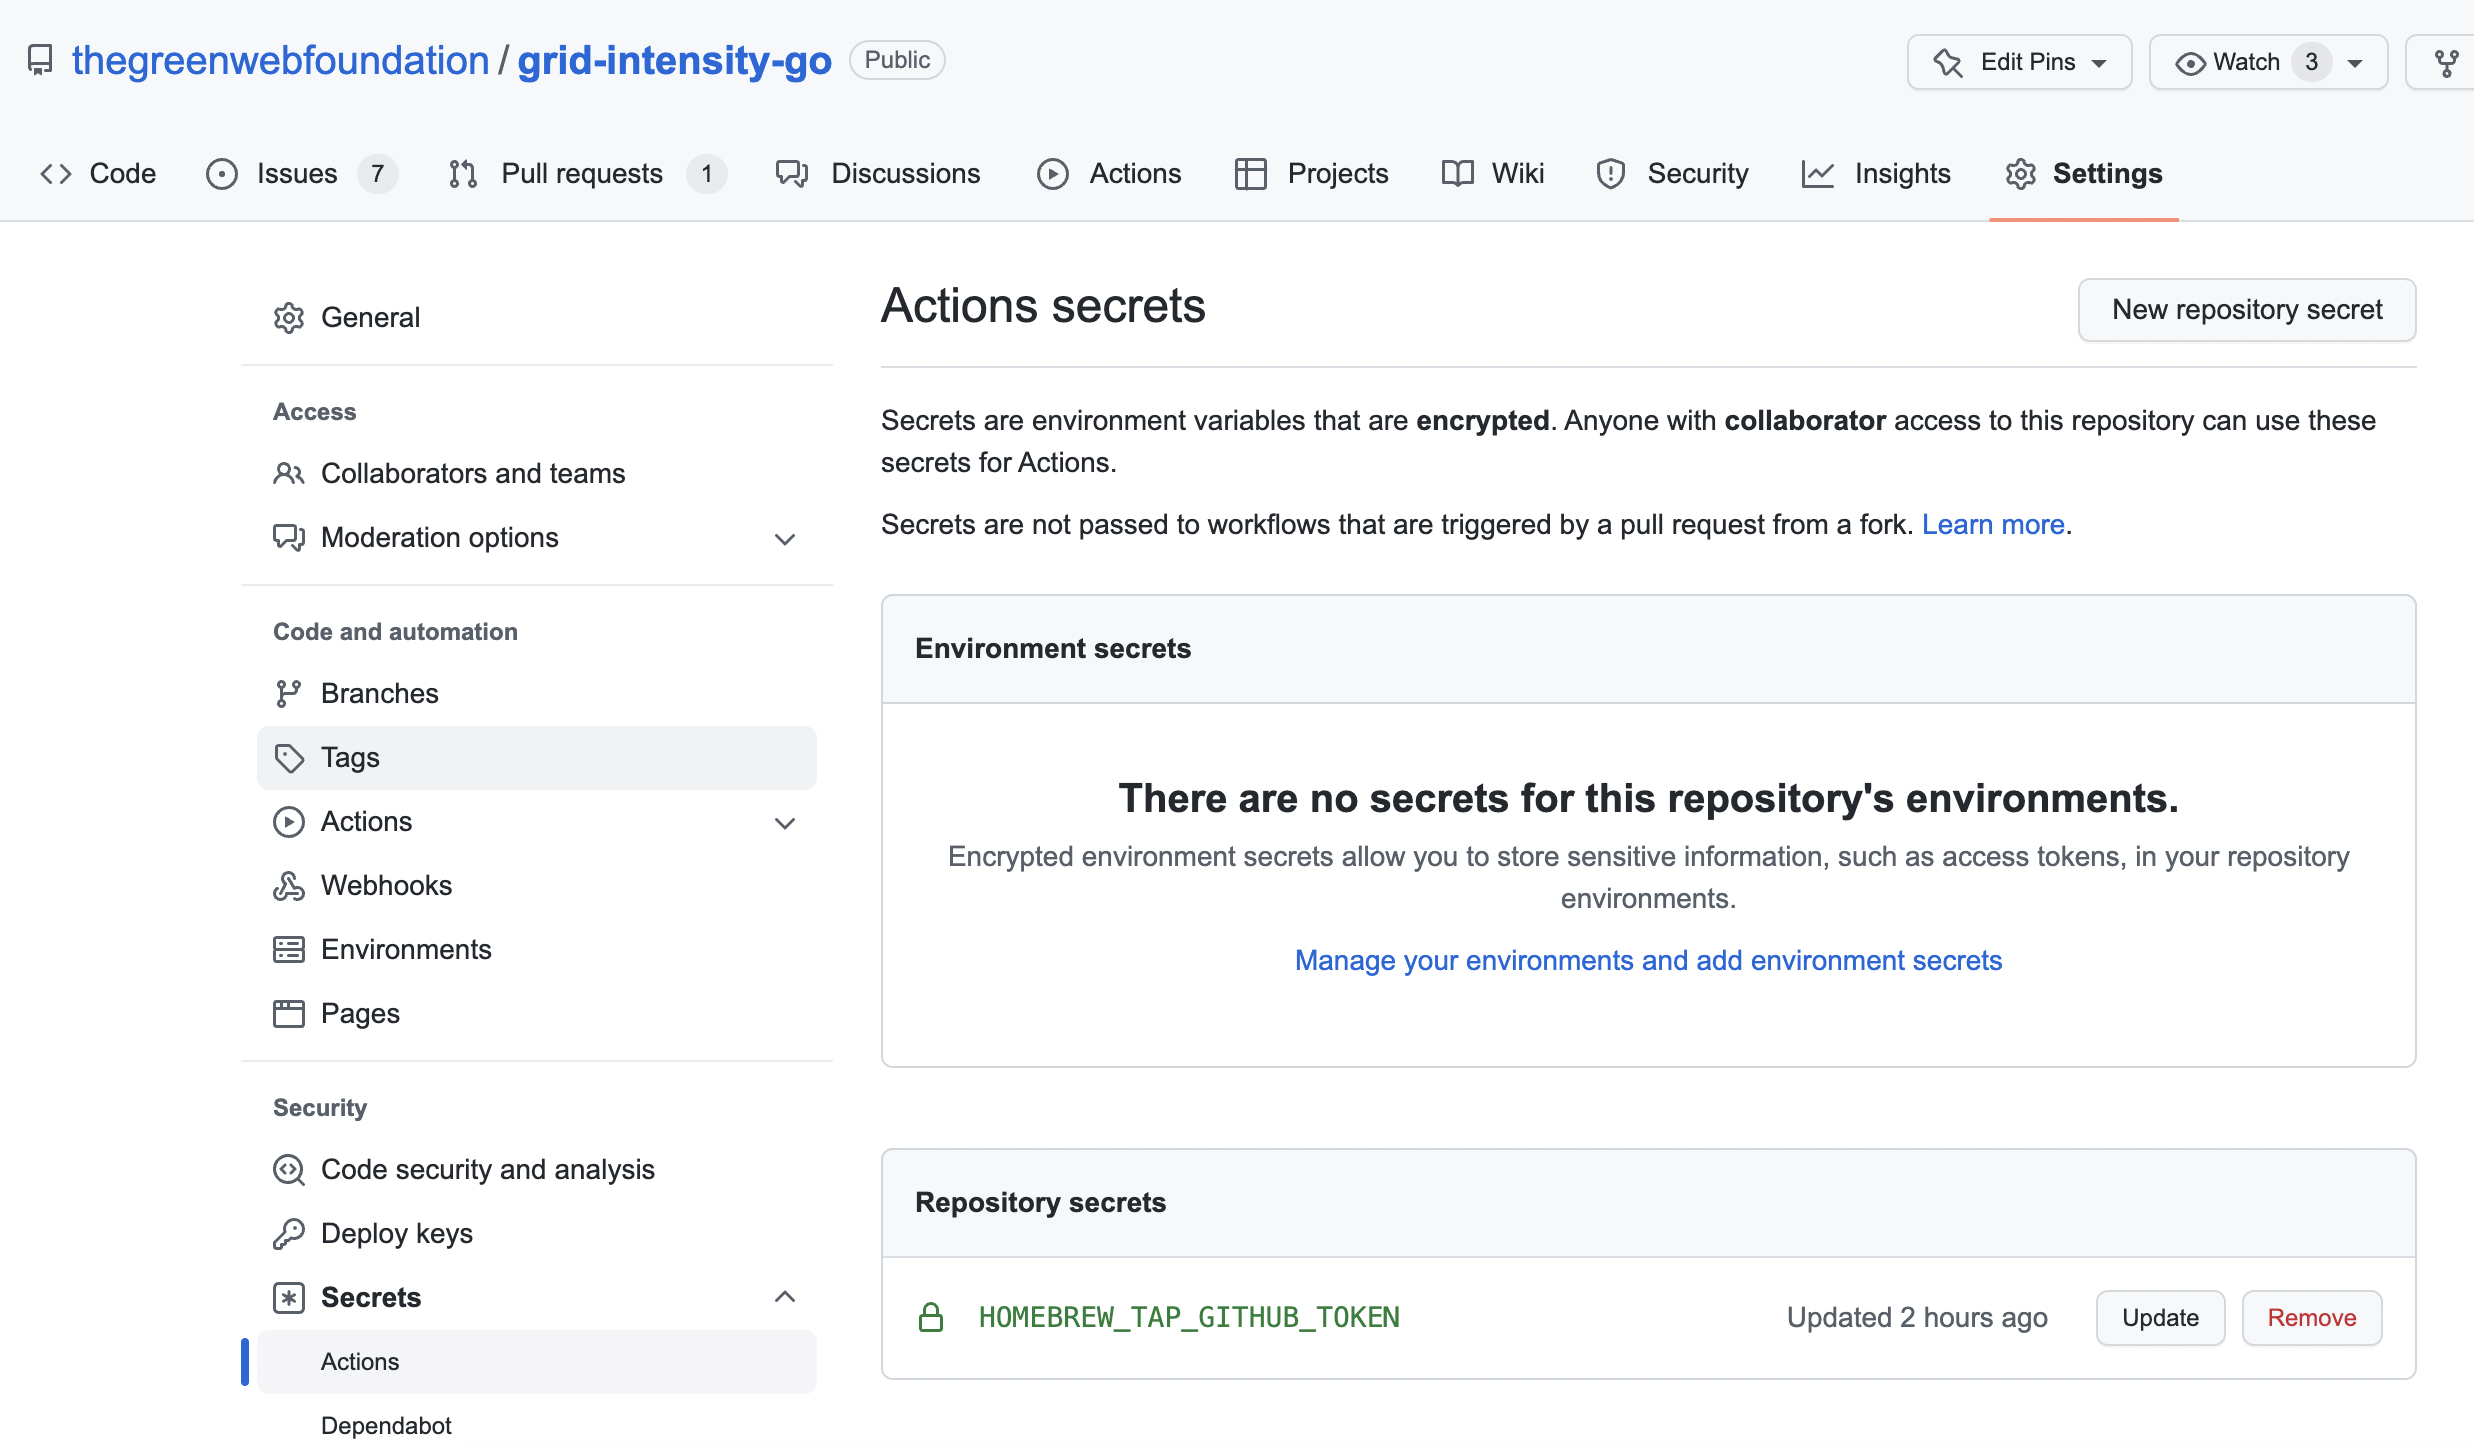
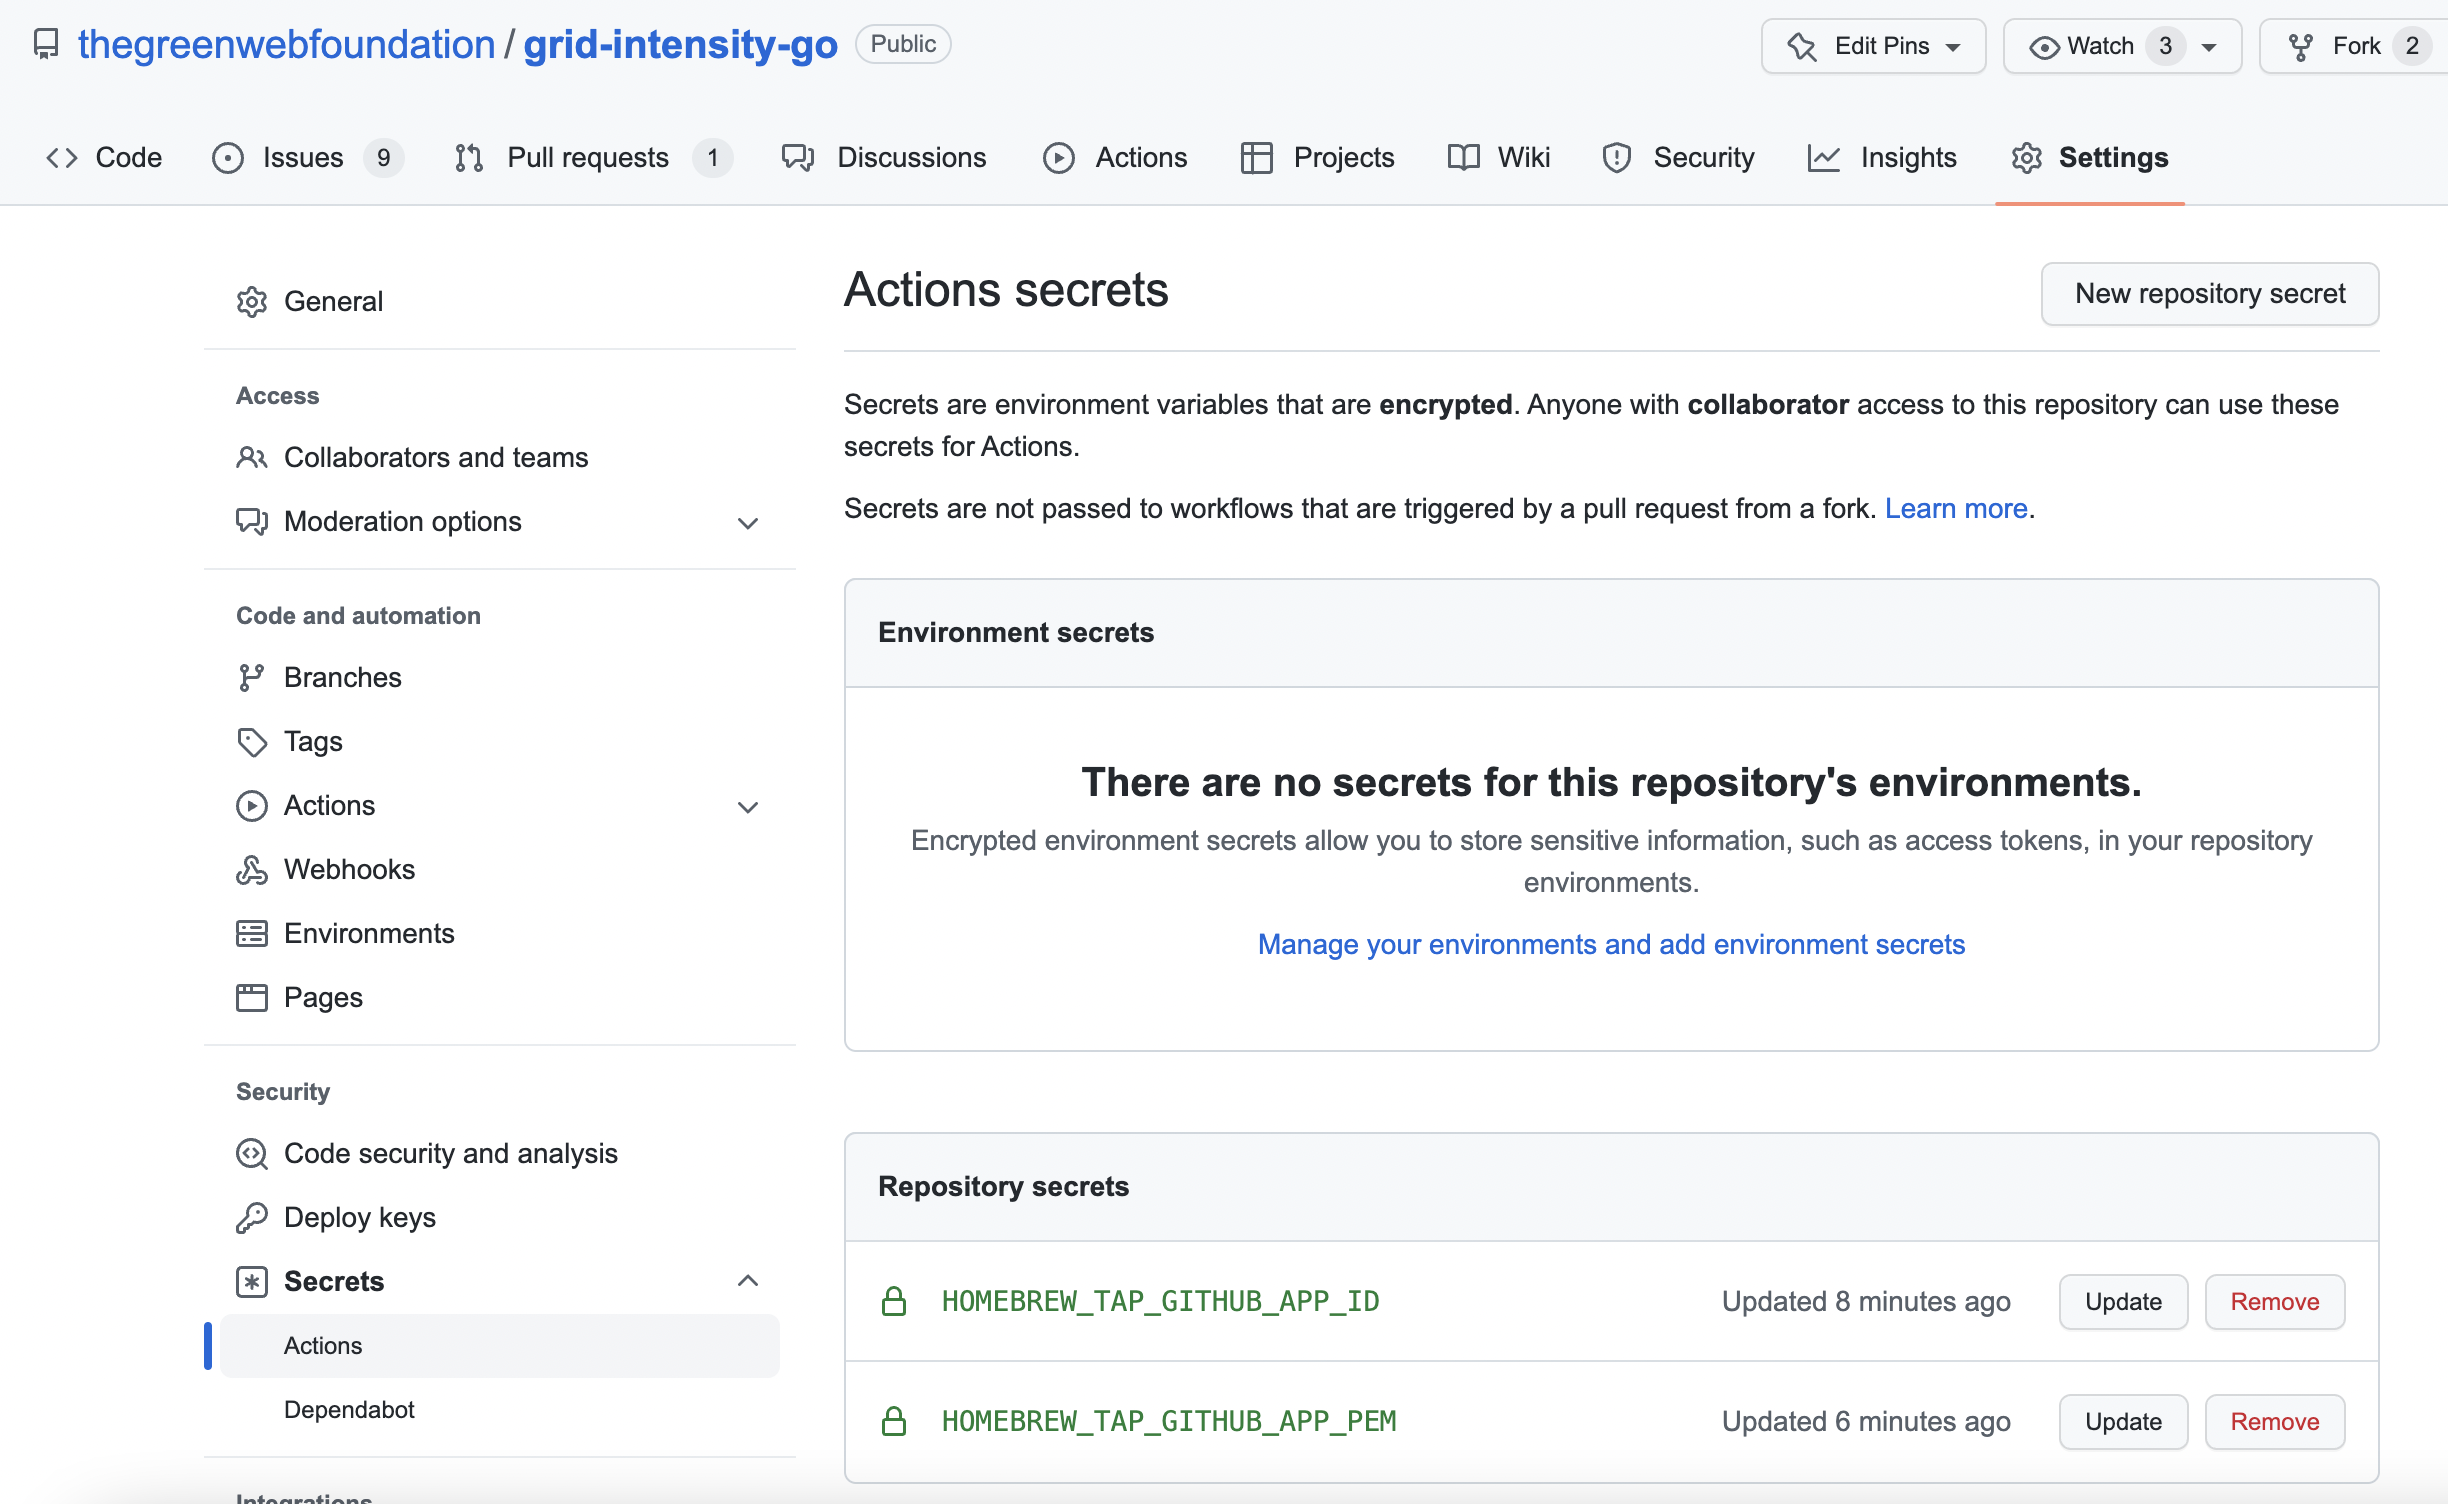
fix: Generate installation token for GoReleaser (#26)
* fix: Generate installation token for GoReleaser

* Remove link

diff --git a/docs/homebrew.md b/docs/homebrew.md
@@ -4,12 +4,15 @@ The homebrew tap is located at https://github.com/thegreenwebfoundation/homebrew
 
 ## Permissions
 
-The GoReleaser GitHub Action uses the secret `HOMEBREW_TAP_GITHUB_TOKEN` to
-authenticate with the GitHub API when publishing to the 
+The GoReleaser GitHub Action uses the secrets `HOMEBREW_TAP_GITHUB_APP_ID` and
+`HOMEBREW_TAP_GITHUB_APP_PEM` to generate an installation token which
+expires after 1 hour.
+
+This is used to authenticate with the GitHub API when publishing to the 
 `homebrew-carbon-aware-tools` repo.
 
-To restrict access to just this repo a GitHub App has been created with an
-installation token that can write to this repo.
+To restrict access to just this repo a GitHub App has been created that can
+write to this repo.
 
 ## Setup
 
@@ -17,11 +20,6 @@ installation token that can write to this repo.
 the settings of the `thegreenwebfoundation` organization.
 
 ![GitHub App](github_app.png)
-
-- By default installation tokens expire after 8 hours. So we need to opt out of
-this setting via [Optional Features](https://docs.github.com/en/developers/apps/getting-started-with-apps/activating-optional-features-for-apps).
-
-![GitHub App optional features](github_app_optional_features.png)
 
 - To create the installation token we need to create a [private key](https://docs.github.com/en/developers/apps/building-github-apps/authenticating-with-github-apps)
 for the app. (This can be found in 1 Password).
@@ -49,18 +47,13 @@ https://docs.github.com/en/developers/apps/building-github-apps/authenticating-w
 26614624
 ```
 
-- Create an installation token that can write to the `grid-intensity-go` repo.
-
-```
-curl \
-  -X POST \
-  -H "Accept: application/vnd.github.v3+json" \
-  -H "Authorization: Bearer ***JWT TOKEN***
-  https://api.github.com/app/installations/26614624/access_tokens \
-  -d '{"repository":"homebrew-carbon-aware-tools","permissions":{"contents":"write"}}'
-```
-
-- Add the token as a secret named `HOMEBREW_TAP_GITHUB_TOKEN` in the
-`grid-intensity-go` repo.
+- Add a secret named `HOMEBREW_TAP_GITHUB_APP_ID` with the installation ID above.
 
 ![GitHub secret with token](github_repo_secret.png)
+
+- Add a secret named `HOMEBREW_TAP_GITHUB_APP_PEM` with the base 64 encoded
+private key.
+
+```
+base64 private-key.pem
+```
